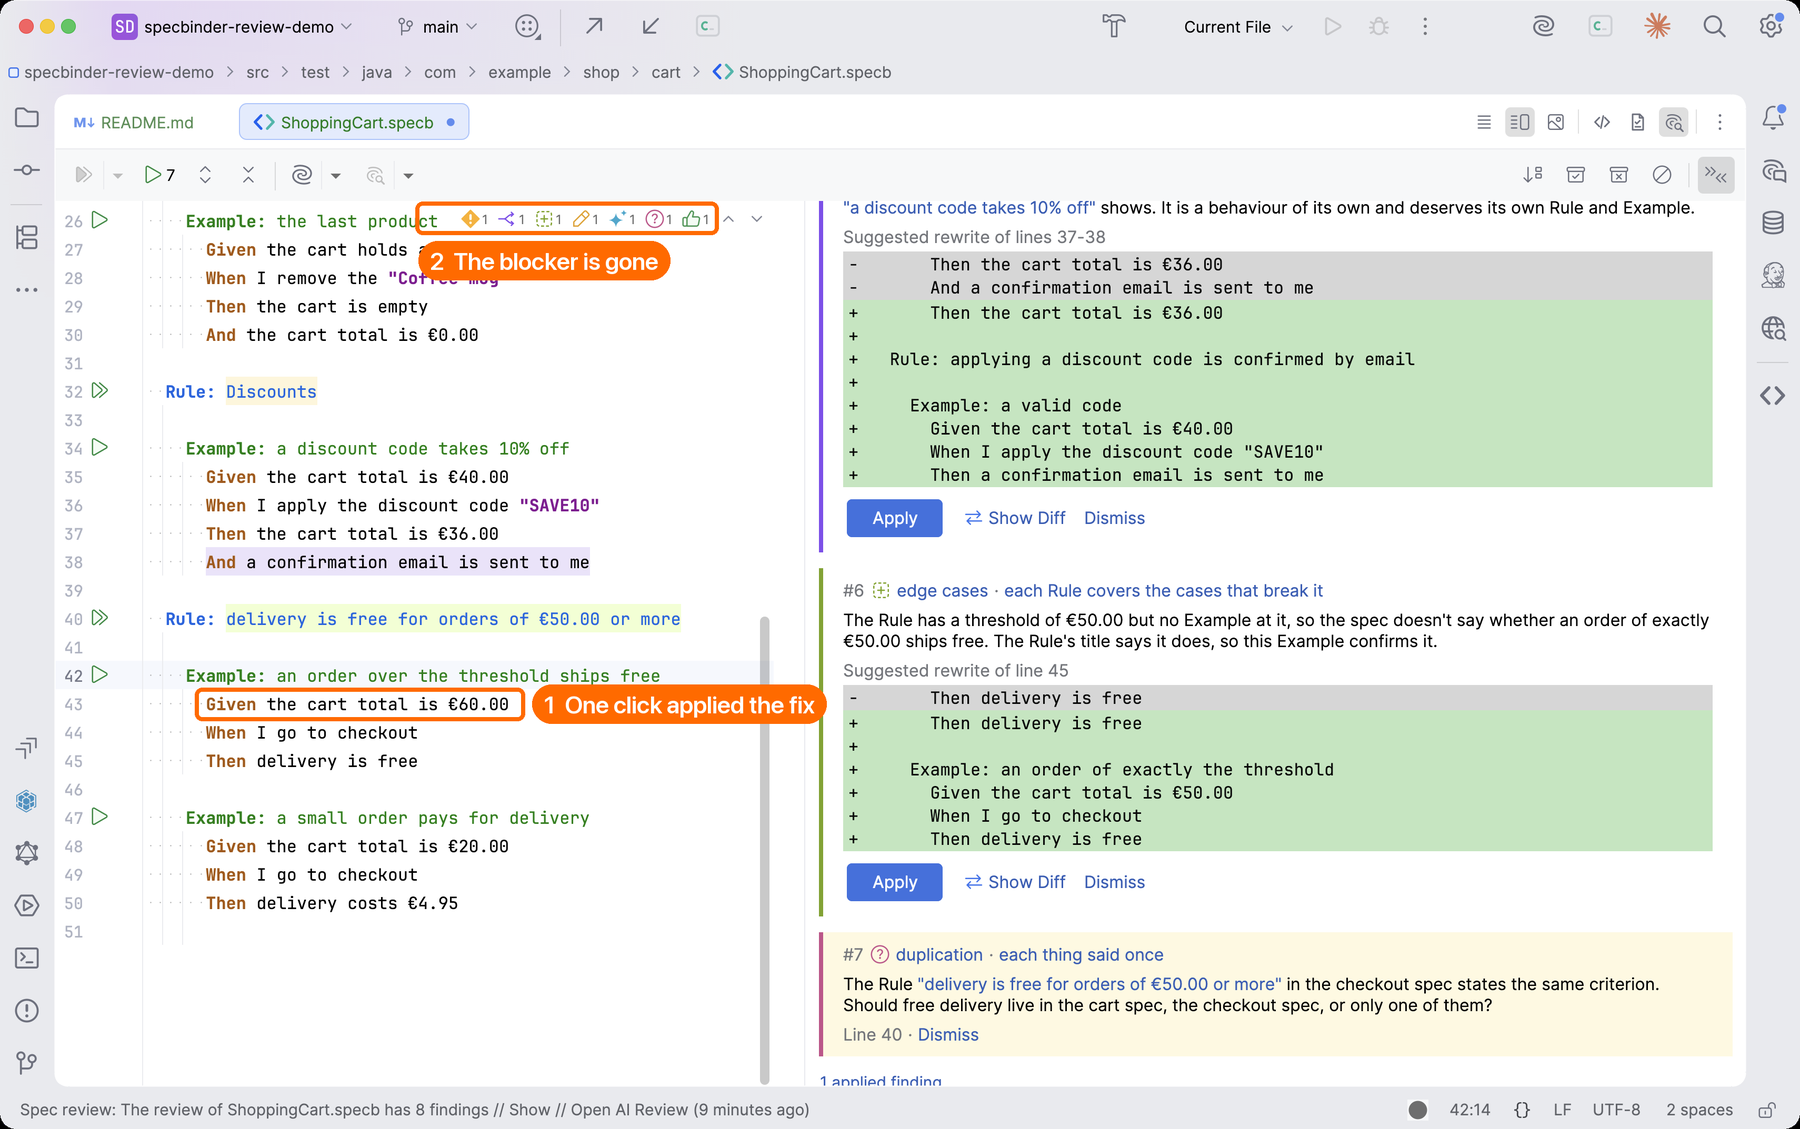
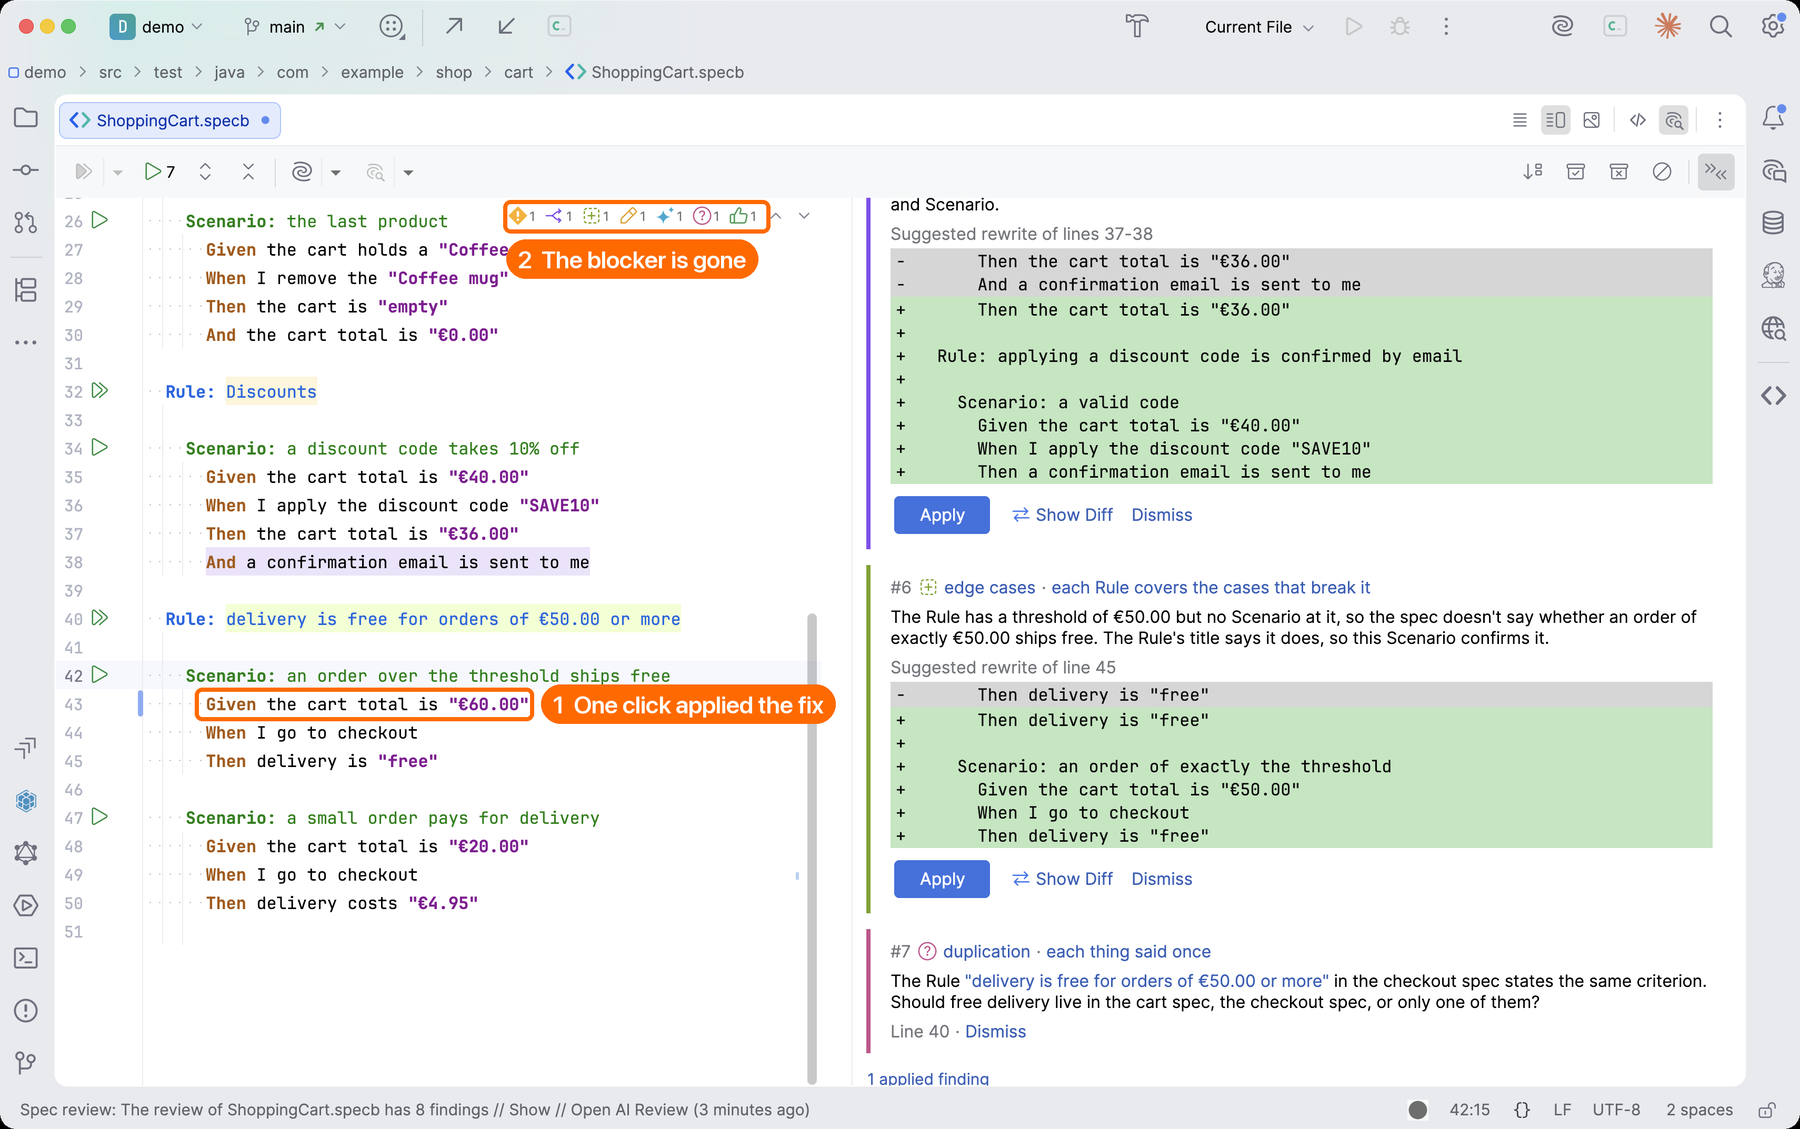
refactoring

diff --git a/demo/.specbinder/review-guidelines/format.md b/demo/.specbinder/review-guidelines/format.md
@@ -2,8 +2,6 @@
 
 Kind: polish
 
-- Flag (suggestion): `Feature:` or `Scenario:` where the preferred `Ability:` or `Example:` would do. Report it
-  once per spec, not once per keyword. `Scenario Outline:` with its `Examples:` table stays as it is.
 - Flag: an `Ability:` title that is a sentence or a description rather than a short verb phrase of about one to
   three words naming the capability, starting lowercase ("renaming a step", "paying by card").
 - Flag (suggestion): an Ability without an `As a … / I want … / So that …` user story, or a story whose parts are

diff --git a/skills/review-spec/starter-guidelines/format.md b/skills/review-spec/starter-guidelines/format.md
@@ -2,8 +2,6 @@
 
 Kind: polish
 
-- Flag (suggestion): `Feature:` or `Scenario:` where the preferred `Ability:` or `Example:` would do. Report it
-  once per spec, not once per keyword. `Scenario Outline:` with its `Examples:` table stays as it is.
 - Flag: an `Ability:` title that is a sentence or a description rather than a short verb phrase of about one to
   three words naming the capability, starting lowercase ("renaming a step", "paying by card").
 - Flag (suggestion): an Ability without an `As a … / I want … / So that …` user story, or a story whose parts are
